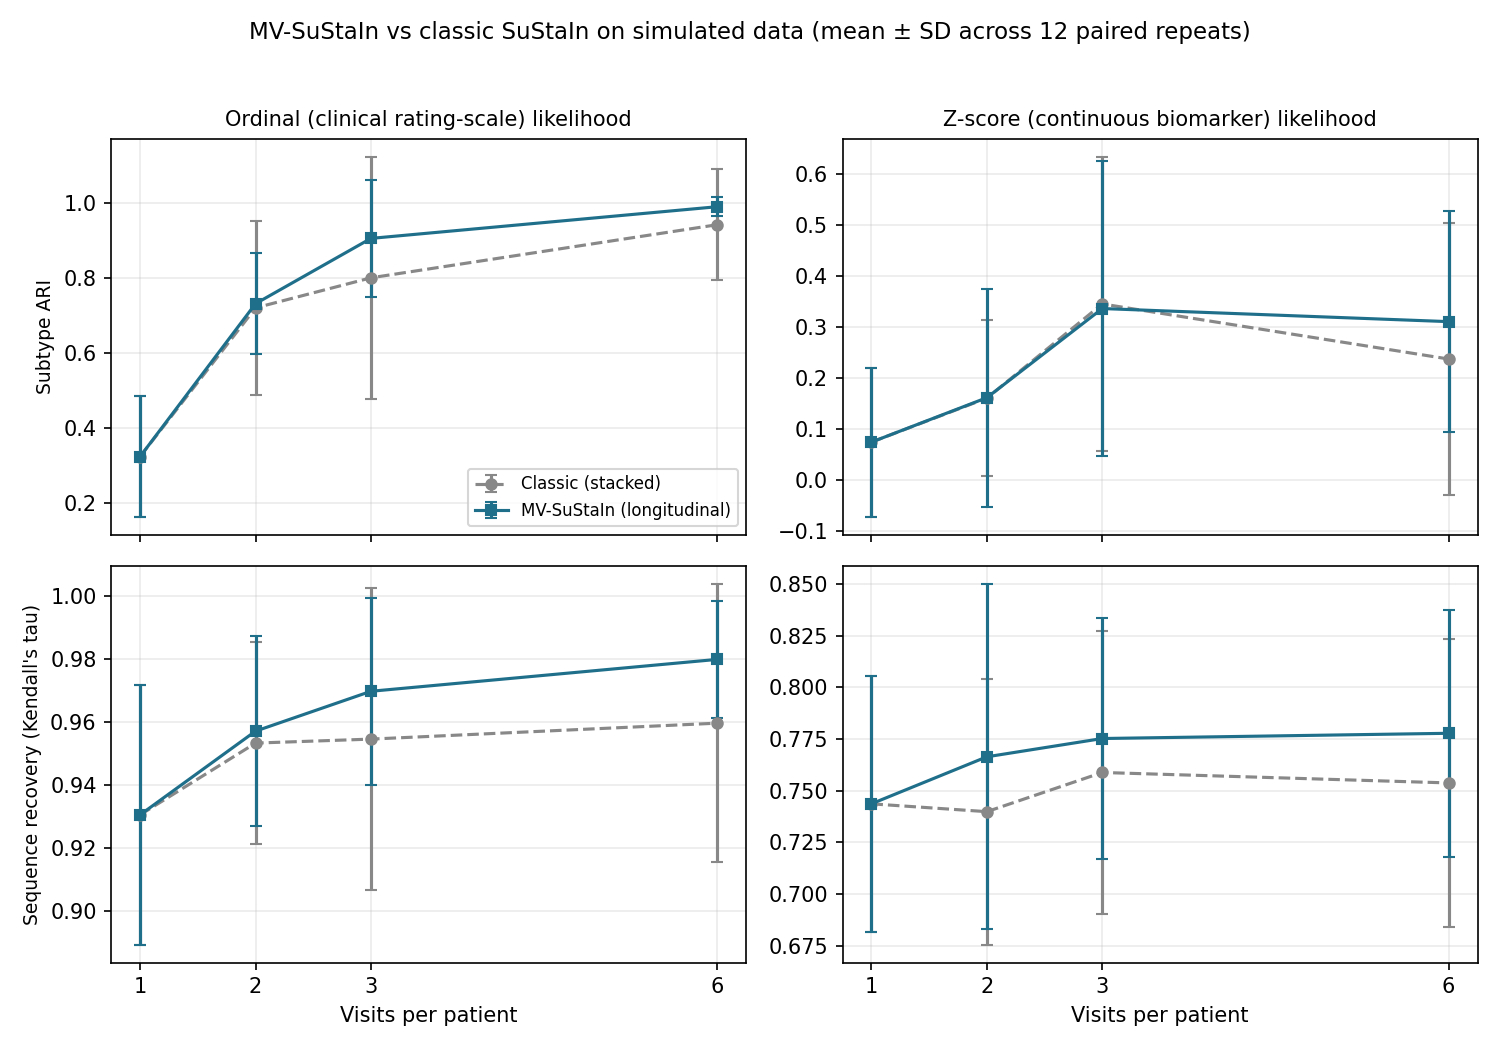
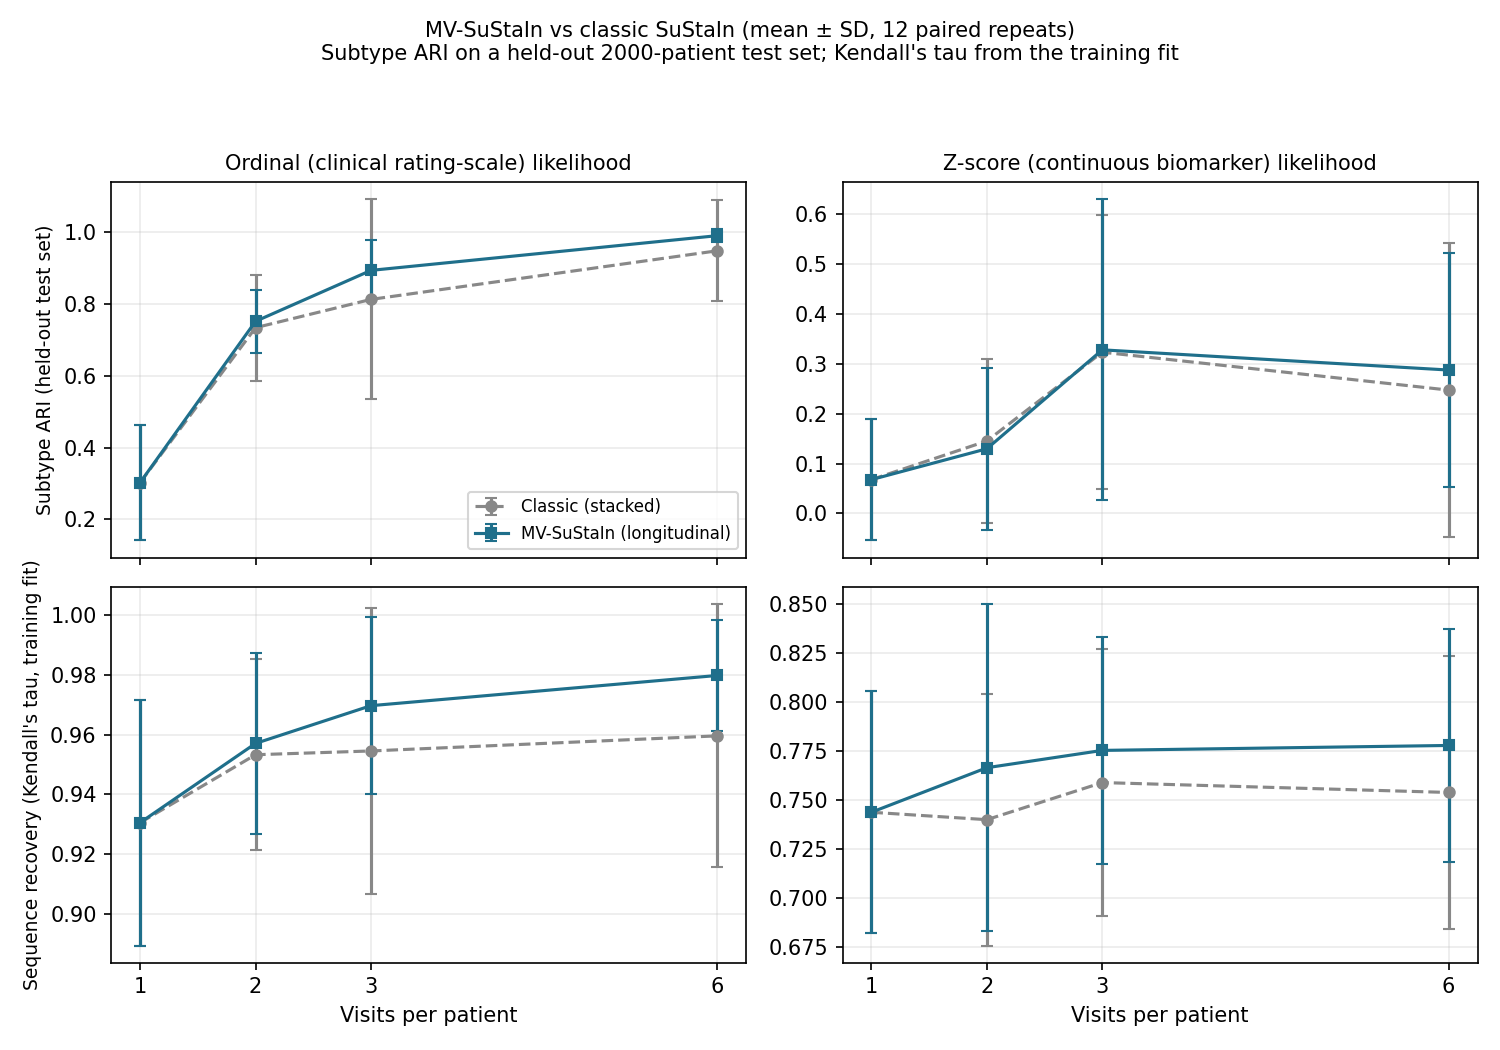
Re-derive validation report from held-out test-set metrics
Subtype accuracy/ARI/stage-accuracy now come from metrics_test_by_visits
-- an independent 2000-patient held-out cohort evaluated at each run's
matching visit-count group -- rather than the training-fit metrics used
previously. sustain_main.py already generates and evaluates this test set
by default, so no extra compute was needed, just correcting which field
the aggregator reads. Kendall's tau is unchanged (a training-fit property
with no test-set equivalent). Conclusions are qualitatively the same;
exact numbers shifted slightly. Also documents the single noise/difficulty
setting used and flags a harder-condition follow-up as future work.

diff --git a/validation/REPORT.md b/validation/REPORT.md
@@ -28,15 +28,20 @@ data points. The implementation is available at
 
 ## 2. Simulation Design
 
-Two-subtype synthetic cohorts (60 subjects, 4 biomarkers) were generated
-under two likelihoods used by SuStaIn: **ordinal** (discrete clinical
-rating-scale data, e.g. resembling MDS-UPDRS/MoCA-style items) and
-**z-score** (continuous biomarker data). For each likelihood, cohorts were
-simulated at four visit counts per patient (1, 2, 3, 6) and fit two ways —
-classic (stacked, independent-visit) and MV-SuStaIn (longitudinal,
-joint-likelihood) — on the *same* simulated data, so the only thing that
-differs between the two fits is the training likelihood mechanism, not the
-data.
+Two-subtype synthetic cohorts (**60 training patients**, **4 biomarkers**,
+**12 total events** — each biomarker crossing 3 ordinal score levels or 3
+z-score thresholds [1, 2, 3 SD], z-max 5) were generated under two
+likelihoods used by SuStaIn: **ordinal** (discrete clinical rating-scale
+data, e.g. resembling MDS-UPDRS/MoCA-style items; correctness probability
+0.9) and **z-score** (continuous biomarker data; noise σ=1.0, uniform noise
+logic). This is a single, comparatively favorable noise/difficulty setting
+— see [Limitations](#limitations).
+
+For each likelihood, cohorts were simulated at four visit counts per
+patient (1, 2, 3, 6) and fit two ways — classic (stacked, independent-visit)
+and MV-SuStaIn (longitudinal, joint-likelihood) — on the *same* simulated
+training data, so the only thing that differs between the two fits is the
+training likelihood mechanism, not the data.
 
 Each of the 16 (likelihood × visit-count × mode) conditions was repeated
 across **12 seeds**, with the classic and MV-SuStaIn fit of a given
@@ -48,34 +53,44 @@ in this public release, since it depends on the private research harness
 — the method implementation itself, in this repository, is what matters
 for reproducing the mechanism).
 
-Sequence recovery is scored against the known ground-truth generative
-sequence (Kendall's tau); subtype recovery is scored against the known
-ground-truth subtype label (ARI, permutation accuracy). Per the project's
-own methodology (classic SuStaIn's post-hoc visit-combination is a valid,
-necessary step for it, but is not the correct comparison point for
-MV-SuStaIn, whose default output already reflects the full joint-visit
-posterior — using it there would inflate confidence), classic SuStaIn is
-scored on its post-hoc metric and MV-SuStaIn on its unconstrained metric,
-except at 1 visit, where the two are mathematically identical and no
-post-hoc combination applies to either model.
+**Evaluation uses a held-out test set, not the training cohort.** Every fit
+is additionally scored against an independent, freshly-simulated
+**2000-patient test cohort** (fixed seed, same generative process, disjoint
+from the 60 training patients) at the matching visit-count group. Subtype
+recovery (ARI, permutation accuracy) and stage accuracy are read from this
+held-out evaluation; fitting a model and re-scoring it on its own training
+data would not be a generalization claim. Sequence recovery (Kendall's tau)
+has no test-set equivalent — it scores the sequence recovered from the
+training fit against the known ground-truth generative sequence, not a
+per-patient prediction — so it is read from the training fit itself.
+
+Per the project's own methodology (classic SuStaIn's post-hoc
+visit-combination is a valid, necessary step for it, but is not the correct
+comparison point for MV-SuStaIn, whose default output already reflects the
+full joint-visit posterior — using it there would inflate confidence),
+classic SuStaIn is scored on its post-hoc test metric and MV-SuStaIn on its
+unconstrained test metric, except at 1 visit, where the two are
+mathematically identical and no post-hoc combination applies to either
+model.
 
 ## 3. Results
 
 ![Headline comparison figure](headline_figure.png)
 
 *Mean ± SD across 12 paired repeats. Dashed grey: classic SuStaIn. Solid
-blue: MV-SuStaIn.*
+blue: MV-SuStaIn. ARI is on the held-out 2000-patient test set; Kendall's
+tau is a training-fit property (see above).*
 
 | Likelihood | Visits | ARI (MV) | ARI (classic) | p | Kendall-τ (MV) | Kendall-τ (classic) | p |
 |---|---|---|---|---|---|---|---|
-| Ordinal | 1 | 0.323 | 0.323 | — | 0.931 | 0.931 | — |
-| Ordinal | 2 | 0.731 | 0.719 | 0.82 | 0.957 | 0.953 | 0.45 |
-| Ordinal | 3 | 0.905 | 0.800 | 0.16 | 0.970 | 0.955 | 0.38 |
-| Ordinal | 6 | 0.989 | 0.941 | 0.50 | 0.980 | 0.960 | 0.13 |
-| Z-score | 1 | 0.074 | 0.074 | — | 0.744 | 0.744 | — |
-| Z-score | 2 | 0.161 | 0.160 | 0.58 | 0.766 | 0.740 | 0.31 |
-| Z-score | 3 | 0.336 | 0.345 | 0.70 | 0.775 | 0.759 | 0.41 |
-| Z-score | 6 | 0.311 | 0.237 | 0.23 | 0.778 | 0.754 | 0.14 |
+| Ordinal | 1 | 0.302 | 0.302 | — | 0.931 | 0.931 | — |
+| Ordinal | 2 | 0.751 | 0.733 | 0.91 | 0.957 | 0.953 | 0.45 |
+| Ordinal | 3 | 0.893 | 0.812 | 0.34 | 0.970 | 0.955 | 0.38 |
+| Ordinal | 6 | 0.989 | 0.947 | 0.09 | 0.980 | 0.960 | 0.13 |
+| Z-score | 1 | 0.068 | 0.068 | — | 0.744 | 0.744 | — |
+| Z-score | 2 | 0.130 | 0.145 | 0.27 | 0.766 | 0.740 | 0.31 |
+| Z-score | 3 | 0.328 | 0.324 | 0.97 | 0.775 | 0.759 | 0.41 |
+| Z-score | 6 | 0.288 | 0.248 | 0.42 | 0.778 | 0.754 | 0.14 |
 
 (p = two-sided Wilcoxon signed-rank, paired across the 12 shared-seed
 repeats; full table with all four metrics in `aggregate_summary.csv`.)
@@ -94,14 +109,14 @@ This is directionally consistent with the hypothesis that joint-visit
 training helps more as more visits become available, and it is the
 cleanest single trend in this dataset.
 
-**Z-score likelihood:** the pattern is less consistent — ARI is
-essentially tied at 2-3 visits and only diverges in MV-SuStaIn's favor at
-6 visits; direction is not monotonic across visit counts. This does not
-replicate an earlier, informal finding (from before a June 2026 fix to the
-simulation's noise handling) that MV-SuStaIn was *worse* on z-score
-staging — the current, corrected picture is a wash rather than a
-disadvantage, which is itself worth noting but is not a strong claim
-either way.
+**Z-score likelihood:** the pattern is less consistent — classic SuStaIn's
+test-set ARI is slightly *ahead* at 2 visits, the two are essentially tied
+at 3, and MV-SuStaIn is ahead at 6; direction is not monotonic across visit
+counts. This does not replicate an earlier, informal finding (from before
+a June 2026 fix to the simulation's noise handling) that MV-SuStaIn was
+*worse* on z-score staging — the current, corrected picture is a wash
+rather than a disadvantage, which is itself worth noting but is not a
+strong claim either way.
 
 ## 4. Limitations
 
@@ -112,11 +127,24 @@ either way.
   this study is underpowered to detect the effect sizes observed here at
   p < 0.05. The trends above should be read as consistent with the
   hypothesis, not as proof of it.
-- Simulated data only, at one set of noise/simulation settings. Real-cohort
-  behavior (the subject of ongoing work) may differ.
+- Simulated data only, at a single, comparatively favorable noise/difficulty
+  setting (ordinal correctness probability 0.9, z-score noise σ=1.0). This
+  codebase's own reference experiments also define a harder configuration
+  (correctness probability 0.8, a less separable noise structure, σ=1.5)
+  that this study did not run; the gap between MV-SuStaIn and classic
+  SuStaIn plausibly widens under harder, noisier conditions where the
+  extra visits matter more for disambiguation, but that is a hypothesis
+  for follow-up, not a claim made here.
+- Sample size is modest by real-world standards (60 training patients per
+  condition) and only 4 biomarkers / 12 total events were simulated, for
+  compute-time reasons. Larger cohorts and biomarker panels are within the
+  method's scope but untested here.
+- Real-cohort behavior (the subject of ongoing work) may differ from any
+  simulation study, however parameterized.
 - A larger-repeat follow-up (targeting statistical significance on the
-  ordinal Kendall's-tau result specifically) and real-cohort validation
-  are both in progress.
+  ordinal Kendall's-tau result specifically), a harder-noise-setting
+  follow-up, and real-cohort validation are all natural next steps and are
+  in progress or planned.
 
 ## Data & Code Availability
 